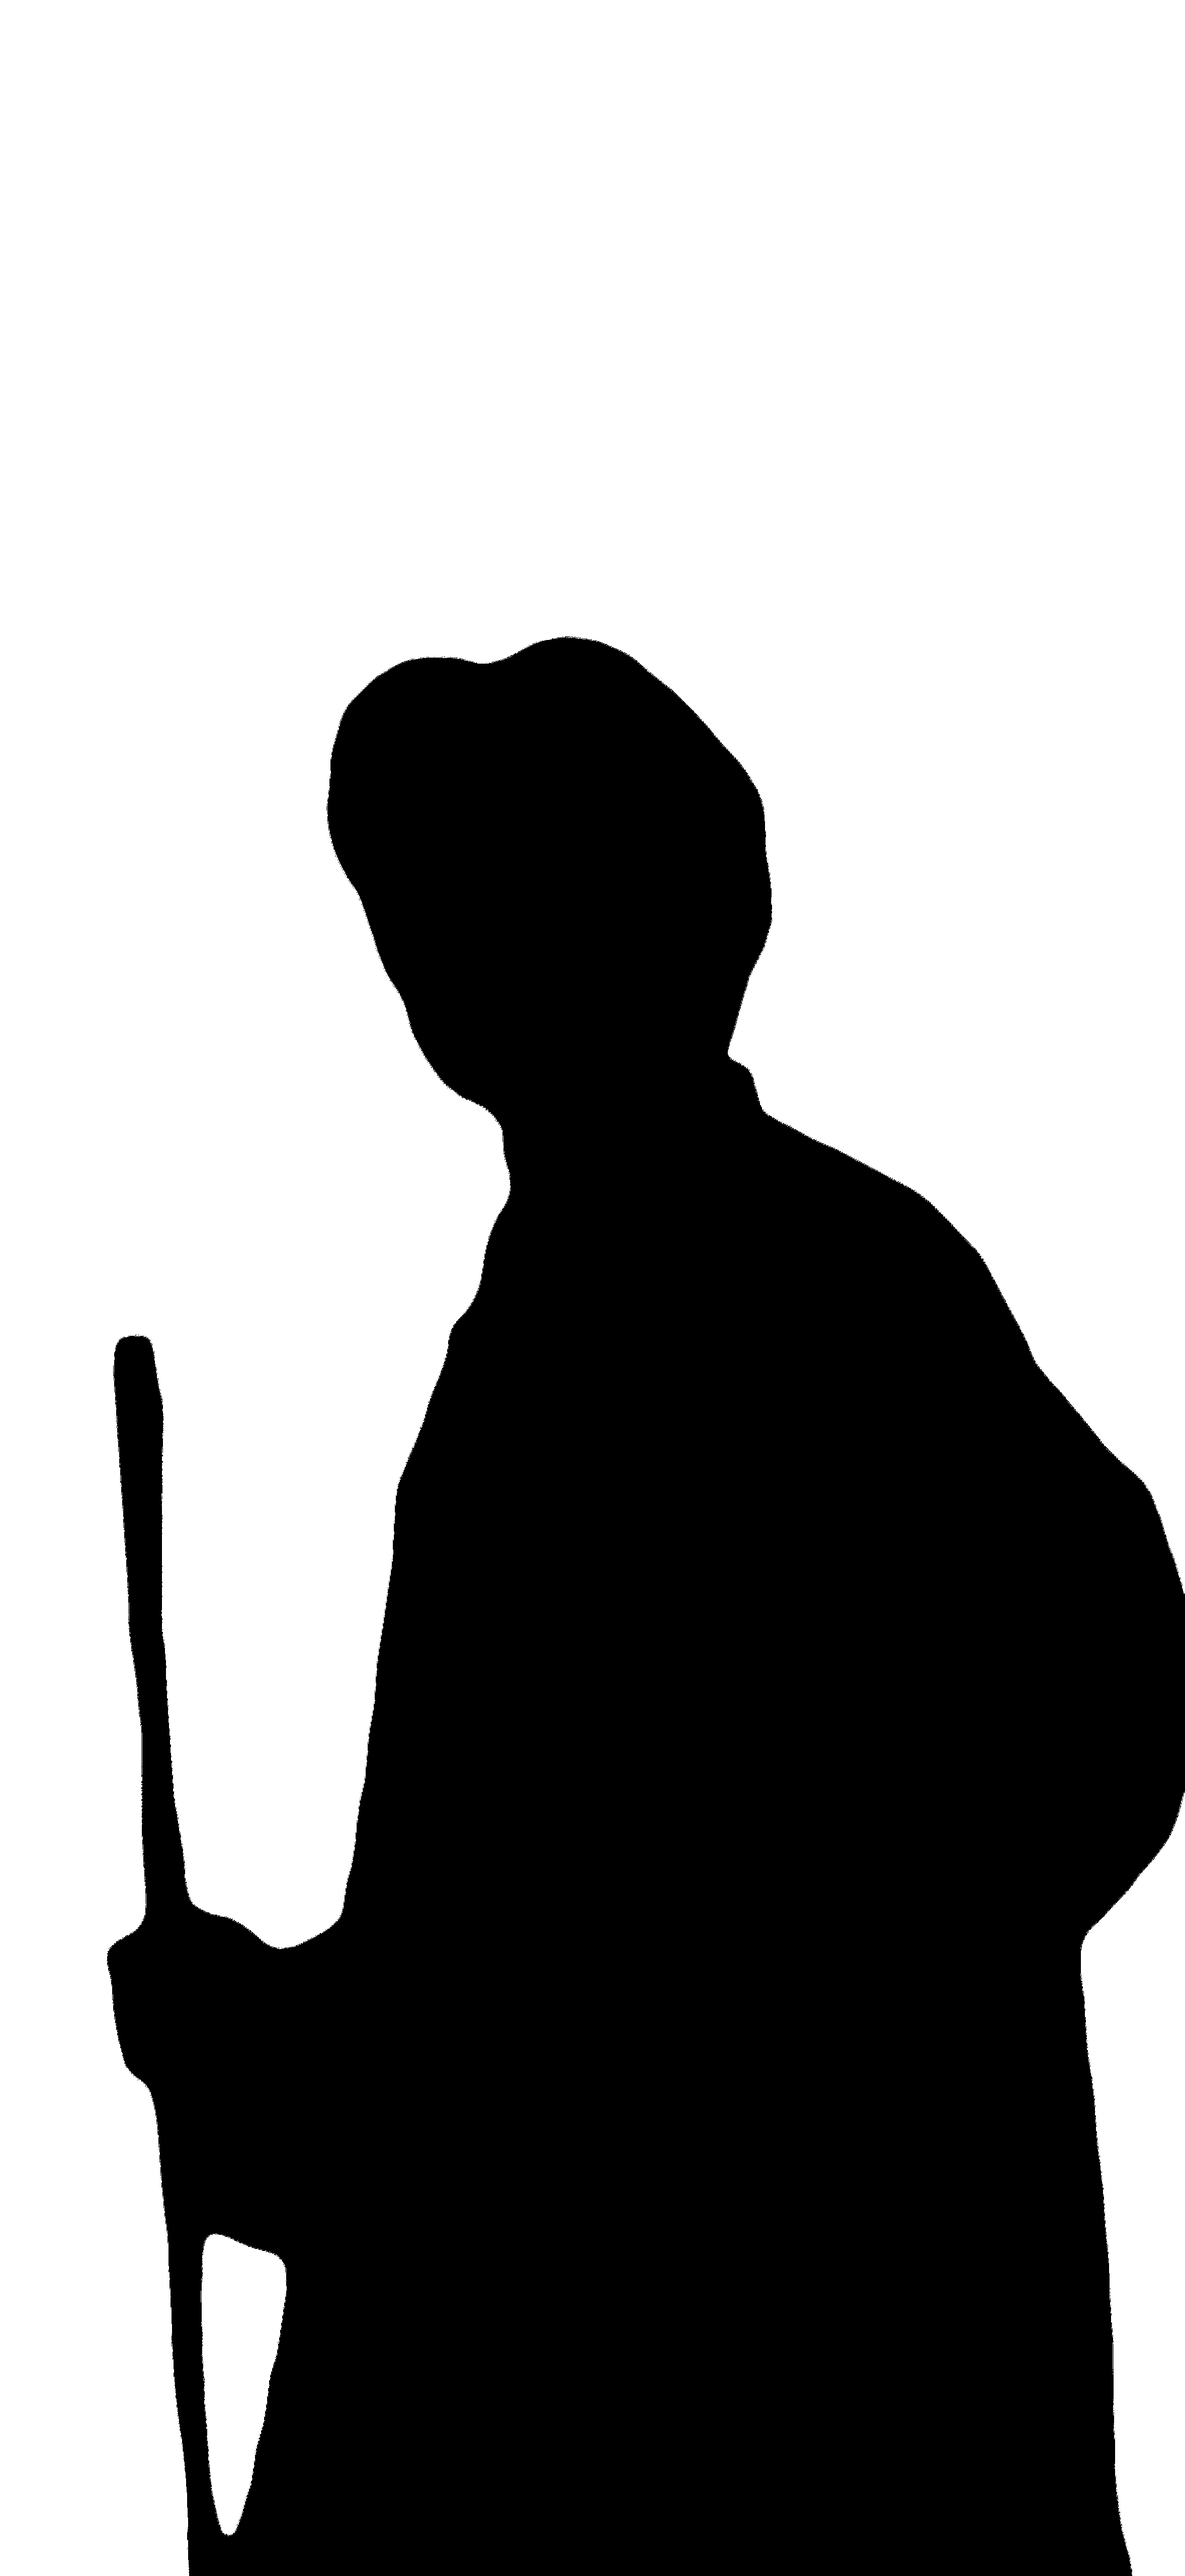
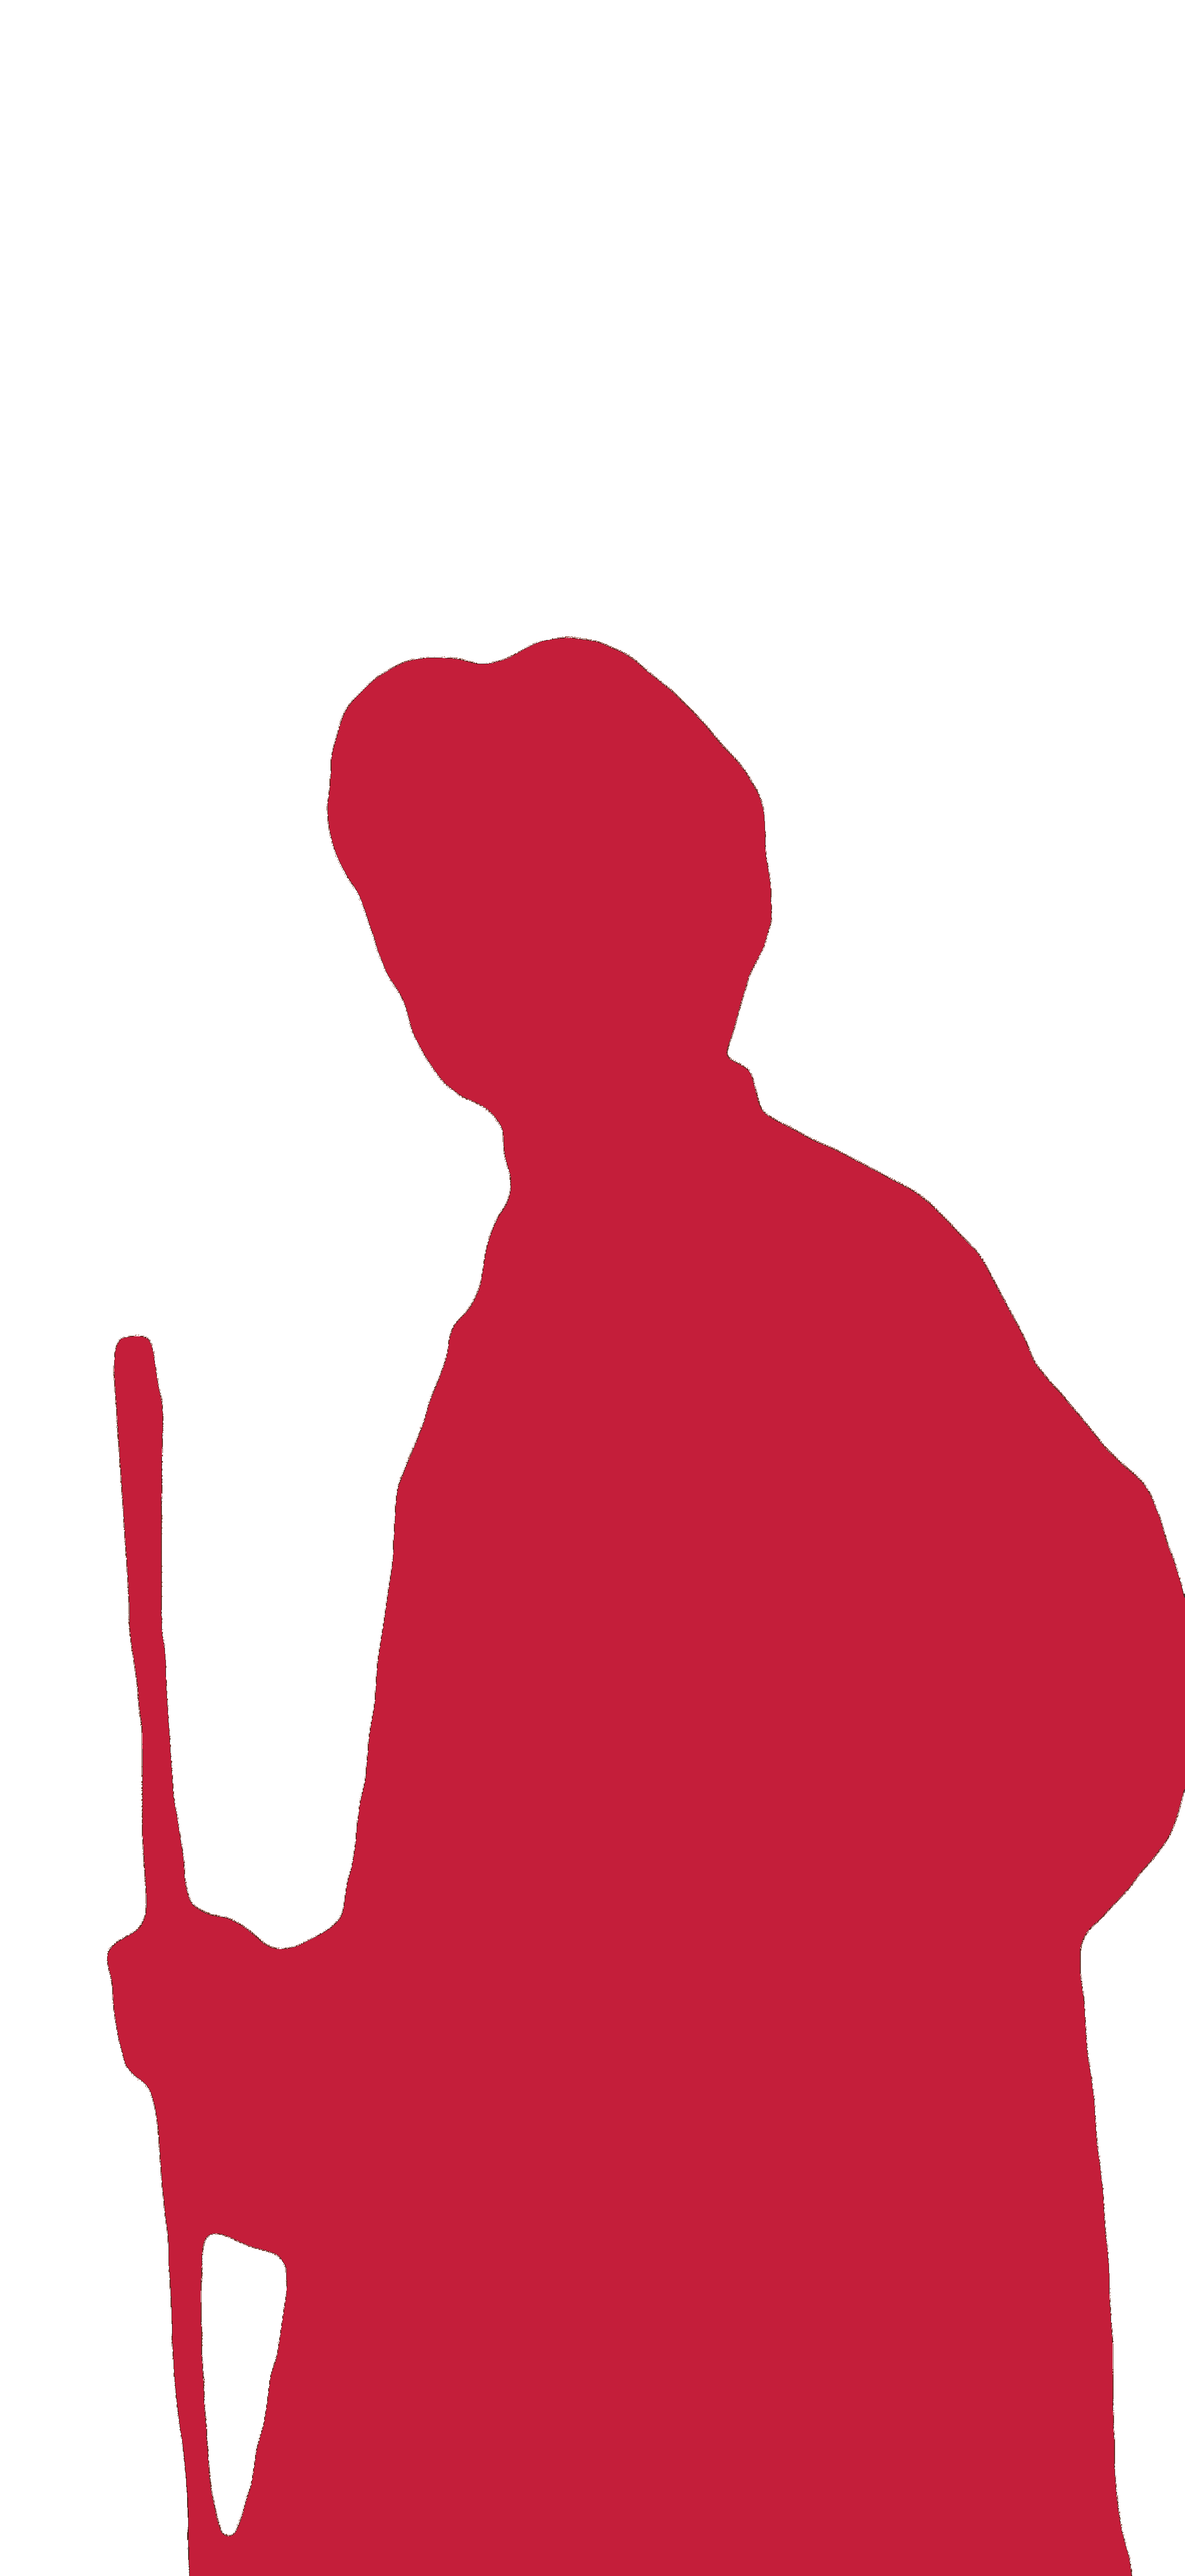
feat: replace canvas path silhouette with drawImage in share card
- Pre-load mao-silhouette.png as global Image object
- Replace Path API drawing with ctx.drawImage()
- Skip drawing if image not yet loaded
- Re-process silhouette to brand red (#c41e3a) for visibility on dark background

diff --git a/js/share.js b/js/share.js
@@ -1,3 +1,7 @@
+// Pre-load silhouette for share card
+const SILHOUETTE_IMG = new Image();
+SILHOUETTE_IMG.src = 'assets/mao-silhouette.png';
+
 /**
  * 生成分享卡片并触发下载
  * @param {Object} quote - 语录对象
@@ -24,42 +28,16 @@ function generateShareCard(quote) {
     ctx.fillRect(0, 0, width, height);
 
     // ===== Silhouette =====
-    ctx.save();
-    ctx.globalAlpha = 0.12;
-    ctx.fillStyle = '#c41e3a';
-    const sX = width * 0.55;
-    const sY = height * 0.15;
-    const s = width * 0.0045;
-
-    // 头部轮廓
-    ctx.beginPath();
-    ctx.moveTo(sX + 60*s, sY + 10*s);
-    ctx.bezierCurveTo(sX + 75*s, sY + 10*s, sX + 85*s, sY + 25*s, sX + 85*s, sY + 45*s);
-    ctx.bezierCurveTo(sX + 85*s, sY + 55*s, sX + 80*s, sY + 65*s, sX + 75*s, sY + 70*s);
-    ctx.lineTo(sX + 80*s, sY + 90*s);
-    ctx.lineTo(sX + 95*s, sY + 110*s);
-    ctx.lineTo(sX + 90*s, sY + 160*s);
-    ctx.lineTo(sX + 30*s, sY + 160*s);
-    ctx.lineTo(sX + 25*s, sY + 110*s);
-    ctx.lineTo(sX + 40*s, sY + 90*s);
-    ctx.lineTo(sX + 45*s, sY + 70*s);
-    ctx.bezierCurveTo(sX + 40*s, sY + 65*s, sX + 35*s, sY + 55*s, sX + 35*s, sY + 45*s);
-    ctx.bezierCurveTo(sX + 35*s, sY + 25*s, sX + 45*s, sY + 10*s, sX + 60*s, sY + 10*s);
-    ctx.fill();
-
-    // 面部负形
-    ctx.globalAlpha = 1;
-    ctx.fillStyle = '#1a0a0a';
-    ctx.beginPath();
-    ctx.arc(sX + 60*s, sY + 35*s, 18*s, 0, Math.PI * 2);
-    ctx.fill();
-    ctx.beginPath();
-    ctx.moveTo(sX + 42*s, sY + 38*s);
-    ctx.quadraticCurveTo(sX + 60*s, sY + 55*s, sX + 78*s, sY + 38*s);
-    ctx.lineTo(sX + 78*s, sY + 45*s);
-    ctx.quadraticCurveTo(sX + 60*s, sY + 62*s, sX + 42*s, sY + 45*s);
-    ctx.fill();
-    ctx.restore();
+    if (SILHOUETTE_IMG.complete && SILHOUETTE_IMG.naturalWidth > 0) {
+        ctx.save();
+        ctx.globalAlpha = 0.12;
+        const sHeight = height * 0.7;
+        const sWidth = sHeight * (SILHOUETTE_IMG.width / SILHOUETTE_IMG.height);
+        const sX = width * 0.55;
+        const sY = height * 0.15;
+        ctx.drawImage(SILHOUETTE_IMG, sX, sY, sWidth, sHeight);
+        ctx.restore();
+    }
 
     // ===== Decorative Line =====
     ctx.strokeStyle = 'rgba(160, 128, 96, 0.3)';
